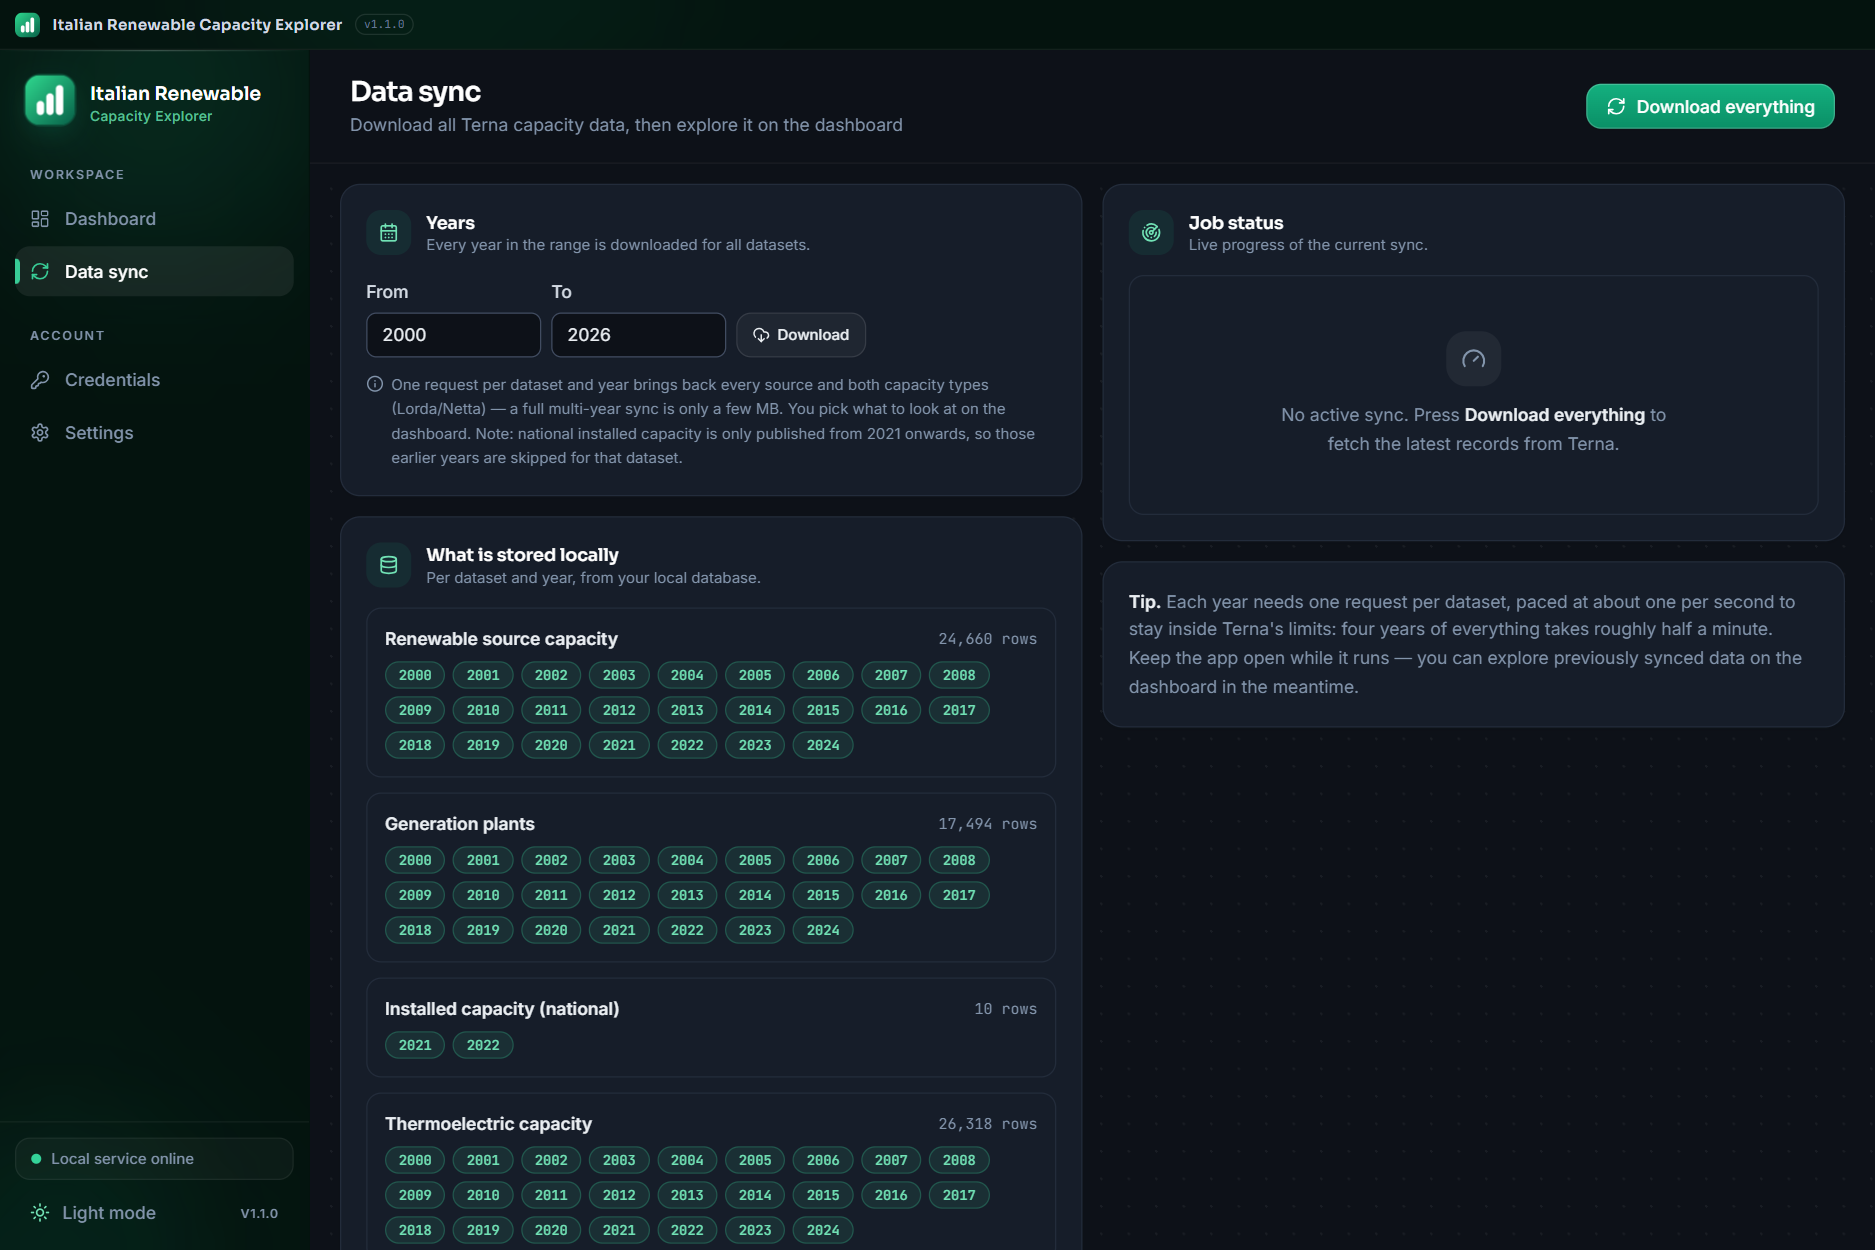
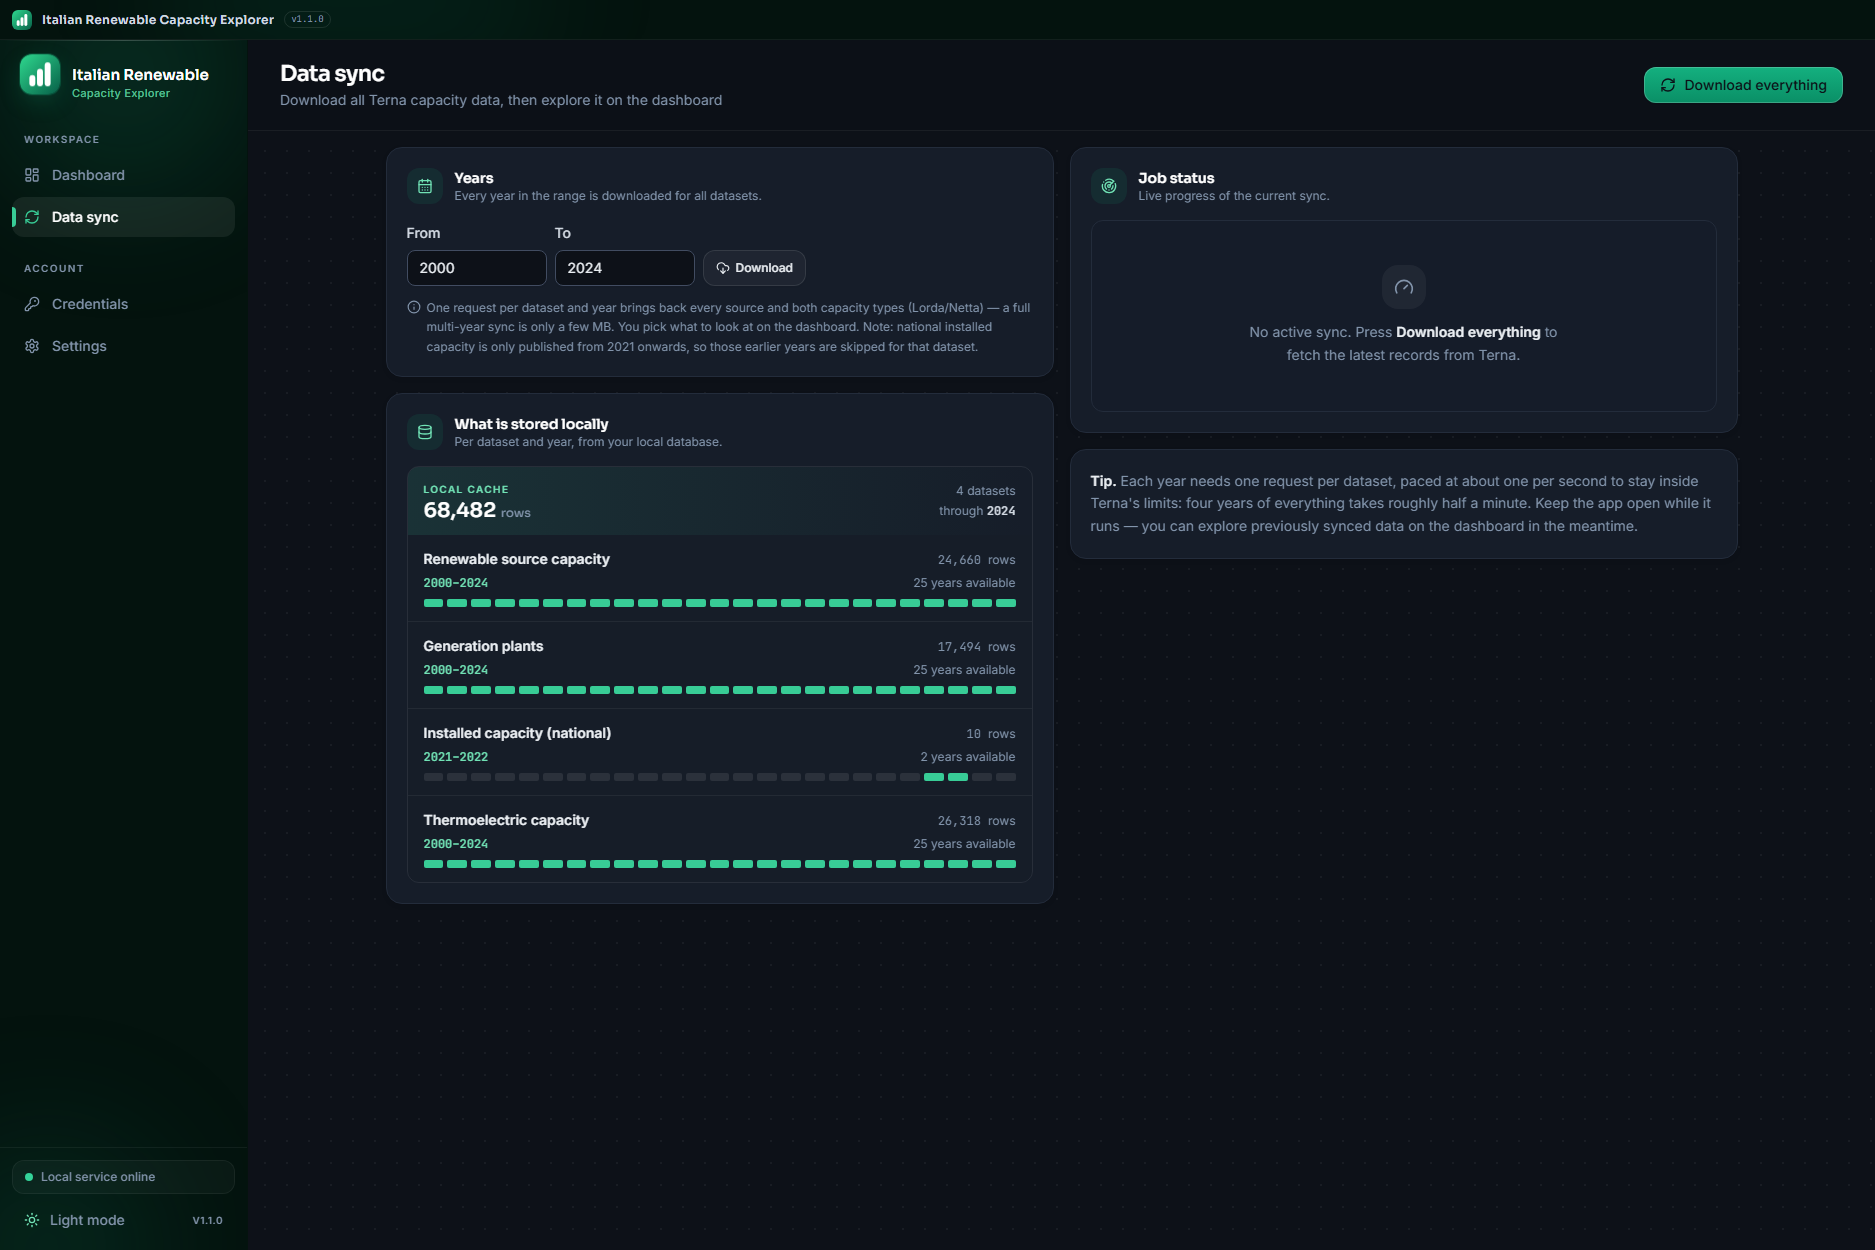
Redesign sync cache overview and refresh README

diff --git a/src/components/sync/StoredDataOverview.tsx b/src/components/sync/StoredDataOverview.tsx
@@ -1,0 +1,84 @@
+import { DATASET_LABELS } from "@/api/client";
+import { formatNumber } from "@/lib/utils";
+import type { Availability, DatasetName } from "@/types";
+
+interface Props {
+  availability: Availability;
+  datasets: readonly DatasetName[];
+}
+
+/** A compact shared timeline makes gaps and shorter datasets easy to compare. */
+export function StoredDataOverview({ availability, datasets }: Props) {
+  const entries = datasets
+    .map((name) => ({ name, data: availability.datasets[name] }))
+    .filter((entry): entry is { name: DatasetName; data: NonNullable<typeof entry.data> } => Boolean(entry.data));
+  const years = entries.flatMap(({ data }) => data.years.map(({ year }) => year));
+  if (years.length === 0) return null;
+
+  const firstYear = Math.min(...years);
+  const lastYear = Math.max(...years);
+  const timeline = Array.from({ length: lastYear - firstYear + 1 }, (_, index) => firstYear + index);
+
+  return (
+    <div className="overflow-hidden rounded-xl border border-ink-200/70 dark:border-white/[0.08]">
+      <div className="flex items-end justify-between gap-3 bg-gradient-to-r from-brand-500/[0.12] to-brand-500/[0.03] px-4 py-3.5 dark:from-brand-400/[0.12] dark:to-transparent">
+        <div>
+          <p className="text-[10px] font-semibold uppercase tracking-[0.14em] text-brand-700 dark:text-brand-300">
+            Local cache
+          </p>
+          <p className="mt-1 font-display text-xl font-semibold leading-none tabular-nums text-ink-900 dark:text-white">
+            {formatNumber(availability.total_rows)} <span className="text-xs font-medium text-ink-500 dark:text-ink-400">rows</span>
+          </p>
+        </div>
+        <p className="text-right text-xs leading-relaxed text-ink-500 dark:text-ink-400">
+          {entries.length} datasets<br />through <span className="font-mono font-semibold text-ink-700 dark:text-ink-200">{lastYear}</span>
+        </p>
+      </div>
+
+      <div className="divide-y divide-ink-200/60 bg-white/50 dark:divide-white/[0.06] dark:bg-ink-900/30">
+        {entries.map(({ name, data }) => {
+          const byYear = new Map(data.years.map((item) => [item.year, item.rows]));
+          const first = data.year_min ?? data.years[0].year;
+          const last = data.year_max ?? data.years[data.years.length - 1].year;
+          return (
+            <div key={name} className="px-4 py-3.5">
+              <div className="flex items-baseline justify-between gap-3">
+                <p className="min-w-0 text-sm font-semibold text-ink-800 dark:text-ink-100">{DATASET_LABELS[name]}</p>
+                <p className="shrink-0 font-mono text-xs tabular-nums text-ink-500 dark:text-ink-400">
+                  {formatNumber(data.total_rows)} <span className="font-sans">rows</span>
+                </p>
+              </div>
+              <div className="mt-1.5 flex items-center justify-between gap-2 text-xs">
+                <span className="font-mono font-medium tabular-nums text-brand-700 dark:text-brand-300">
+                  {first}–{last}
+                </span>
+                <span className="text-ink-500 dark:text-ink-400">
+                  {data.years.length} {data.years.length === 1 ? "year" : "years"} available
+                </span>
+              </div>
+              <div
+                role="img"
+                aria-label={`${DATASET_LABELS[name]}: ${data.years.length} years available from ${first} to ${last}`}
+                className="mt-2 grid h-2 gap-1"
+                style={{ gridTemplateColumns: `repeat(${timeline.length}, minmax(0, 1fr))` }}
+              >
+                {timeline.map((year) => {
+                  const rows = byYear.get(year);
+                  return (
+                    <span
+                      key={year}
+                      title={rows === undefined ? `${year}: no data` : `${year}: ${formatNumber(rows)} rows`}
+                      className={rows === undefined
+                        ? "rounded-sm bg-ink-200/80 dark:bg-white/[0.09]"
+                        : "rounded-sm bg-brand-500 dark:bg-brand-400"}
+                    />
+                  );
+                })}
+              </div>
+            </div>
+          );
+        })}
+      </div>
+    </div>
+  );
+}

diff --git a/src/pages/SyncPage.tsx b/src/pages/SyncPage.tsx
@@ -18,11 +18,10 @@ import { Badge } from "@/components/ui/Badge";
 import { Progress } from "@/components/ui/Progress";
 import { Input } from "@/components/ui/Input";
 import { useToast } from "@/components/ui/Toast";
-import { DATASET_LABELS } from "@/api/client";
 import { useAvailability, useCredentialStatus, useMetadata } from "@/hooks/useMetadata";
 import { useSyncJob } from "@/hooks/useSyncJob";
+import { StoredDataOverview } from "@/components/sync/StoredDataOverview";
 import { cn } from "@/lib/utils";
-import { formatNumber } from "@/lib/utils";
 import type { DatasetName, SyncStatus } from "@/types";
 
 const FALLBACK_FIRST_YEAR = 2000;
@@ -209,35 +208,7 @@ export function SyncPage() {
                   Nothing stored yet. Press “Download everything” to fetch the data from Terna.
                 </p>
               ) : (
-                <div className="space-y-3">
-                  {ALL_DATASETS.map((d) => {
-                    const entry = availability.data?.datasets[d];
-                    if (!entry) return null;
-                    return (
-                      <div key={d} className="surface p-3.5">
-                        <div className="flex items-center justify-between gap-2">
-                          <p className="text-sm font-semibold text-ink-800 dark:text-ink-100">
-                            {DATASET_LABELS[d]}
-                          </p>
-                          <span className="font-mono text-xs text-ink-500 dark:text-ink-400">
-                            {formatNumber(entry.total_rows)} rows
-                          </span>
-                        </div>
-                        <div className="mt-2 flex flex-wrap gap-1.5">
-                          {entry.years.map((y) => (
-                            <span
-                              key={y.year}
-                              title={`${formatNumber(y.rows)} rows`}
-                              className="chip border-brand-500/30 bg-brand-500/10 font-mono text-[11px] text-brand-700 dark:border-brand-400/25 dark:bg-brand-400/10 dark:text-brand-300"
-                            >
-                              {y.year}
-                            </span>
-                          ))}
-                        </div>
-                      </div>
-                    );
-                  })}
-                </div>
+                <StoredDataOverview availability={availability.data} datasets={ALL_DATASETS} />
               )}
             </FieldSection>
           </div>

diff --git a/README.md b/README.md
@@ -1,5 +1,3 @@
-# Italian Renewable Capacity Explorer
-
 ![Italian Renewable Capacity Explorer banner](docs/readme-banner.png)
 
 **Explore Italy's renewable installed capacity — solar, wind, hydro, bioenergy and
